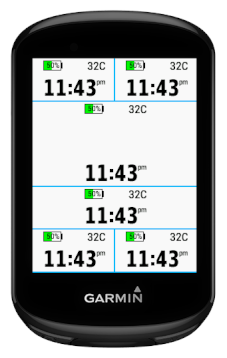
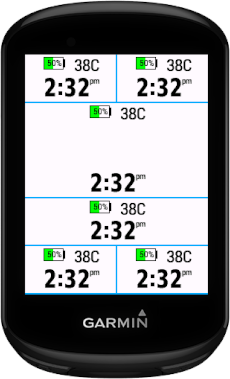
make file and new cover image

diff --git a/README.md b/README.md
@@ -7,7 +7,6 @@ Garmin data field with time of day, battery and temperature information
 The data field shows the current time of day as main indicators.
 On the top of the field it displays the battery level.
 
-![edge820](https://raw.github.com/peregin/connectiq-time-battery/master/doc/edge820.png "edge820")
 ![edge830](https://raw.github.com/peregin/connectiq-time-battery/master/doc/edge830.png "edge830")
 
 Local Deployment

diff --git a/doc/TODO.md b/doc/TODO.md
@@ -1,5 +1,6 @@
 TODO
 ====
+- new cover and upload
 - if no internal temperature sensor then use the extarnal one if exists
 
 DONE
